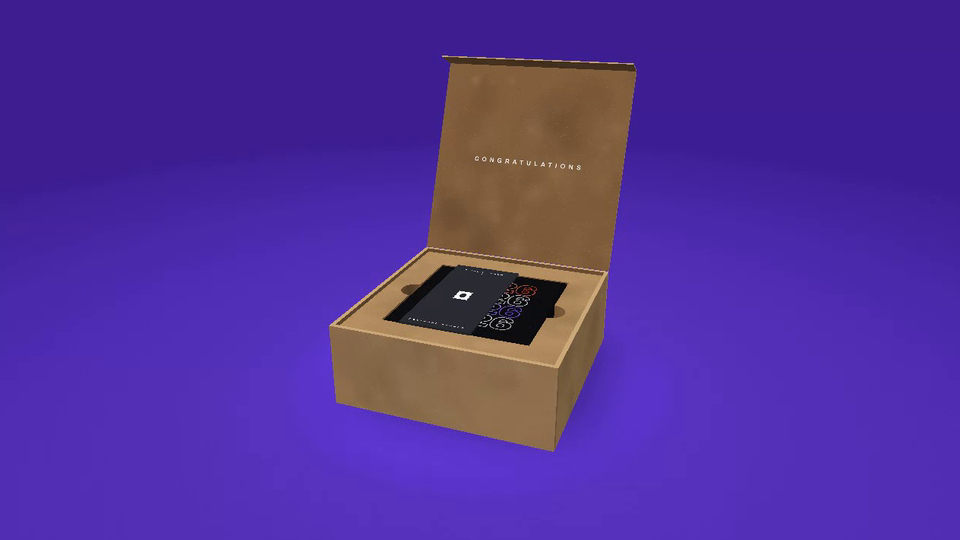
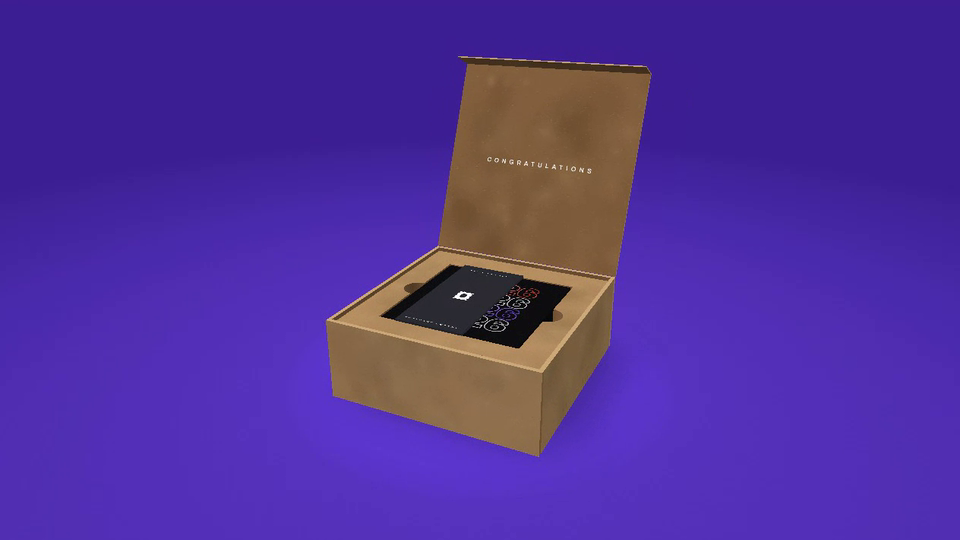
Postmark Awards Unboxing: quill tips come out through the stamps
Claude-Session: https://claude.ai/code/session_016rpguZhw5M1h1FTryY25yE

Changed region(s): [[0.3125, 0.0889, 0.6875, 0.8593], [0.3438, 0.6815, 0.4062, 0.7704], [0.4375, 0.7704, 0.4688, 0.8]]

diff --git a/postmark-awards-unboxing/index.html b/postmark-awards-unboxing/index.html
@@ -194,19 +194,23 @@ const WIN_TOP = triangulate(rectPts((SL_XB - SL_XA) / 2, 173)); // the sleeve to
 const porcP = (x, y) => [(x - 501) * PK, -(y - 490) * PK];
 const pairs = (a) => { const o = []; for (let i = 0; i < a.length; i += 2) o.push(porcP(a[i], a[i + 1])); return o; };
 const BODY_P = pairs(PORC_BODY), BODY_T = triangulate(BODY_P);
-const STEM_P = PORC_STEMS.map(pairs), STEM_T = STEM_P.map((p) => triangulate(p));
+const STEM0 = PORC_STEMS.map(pairs); // the traced quills; the drawn ones (STEM_P) are lengthened below so their tips come out through the stamps
 /* pierced stamps: each stamp is skewered on its quill a little below the tip, leaning off square to the quill, so the tip pokes out through its face.
    Award local space: x = p[0], y = out of the glass, z = -p[1]. Each stamp: centre, across (in the glass plane, square to the quill), up, and its face normal. */
 const STAMP_TILT = [1.0, -1.08, 0.95, -1.05, 1.1, -0.98, 1.04], STAMP_K = 0.85, STAMP_BACK = 10, STAMP_T = 2.2; // tilt from square-to-the-quill toward lying in the glass
 const STAMPS3 = PORC_STAMPS.map(([, , hw, hh, , c], i) => {
-  const P = STEM_P[i], cx = P.reduce((a, p) => a + p[0], 0) / P.length, cy = P.reduce((a, p) => a + p[1], 0) / P.length;
+  const P = STEM0[i], cx = P.reduce((a, p) => a + p[0], 0) / P.length, cy = P.reduce((a, p) => a + p[1], 0) / P.length;
   const tip = P.reduce((m, p) => (Math.hypot(p[0] - cx, p[1] - cy) > Math.hypot(m[0] - cx, m[1] - cy) ? p : m)), l = Math.hypot(tip[0] - cx, tip[1] - cy), d = [(tip[0] - cx) / l, (tip[1] - cy) / l];
   const C = [tip[0] - d[0] * STAMP_BACK, 0, -(tip[1] - d[1] * STAMP_BACK)], D = [d[0], 0, -d[1]], A = [-d[1], 0, -d[0]], t = STAMP_TILT[i];
   const N = [D[0] * Math.cos(t), Math.sin(t), D[2] * Math.cos(t)], U = nrm([N[1] * A[2] - N[2] * A[1], N[2] * A[0] - N[0] * A[2], N[0] * A[1] - N[1] * A[0]]);
   const R = Math.min(hw, hh) * PK * STAMP_K, poly = stampPoly(Math.max(hw, hh) / Math.min(hw, hh), 0.62, 0.12, 4); // long side across the quill
   const at = (q, off) => [C[0] + A[0] * q[0] * R + U[0] * q[1] * R + N[0] * off, C[1] + A[1] * q[0] * R + U[1] * q[1] * R + N[1] * off, C[2] + A[2] * q[0] * R + U[2] * q[1] * R + N[2] * off];
-  return { C, N, poly, tris: triangulate(poly), at, c: c ? RED : PURPLE };
+  return { C, N, R, d, tip, cx, cy, l, poly, tris: triangulate(poly), at, c: c ? RED : PURPLE };
 });
+/* each quill grows past its stamp: a thin, tapering tip comes out through the stamp's face and ends well beyond its edge */
+const STEM_P = STEM0.map((P, i) => { const S = STAMPS3[i], ext = S.R + 12 - STAMP_BACK + 4;
+  return P.map((p) => { const along = (p[0] - S.cx) * S.d[0] + (p[1] - S.cy) * S.d[1], w = cl((along - S.l * 0.3) / (S.l * 0.7), 0, 1); return [p[0] + S.d[0] * ext * w * w * w, p[1] + S.d[1] * ext * w * w * w]; }); });
+const STEM_T = STEM_P.map((p) => triangulate(p));
 /* the cradle: a well the shape of the award and its stamps (a hull, so the leaning stamps clear the walls), deep enough for the stamps hanging below the glass,
    with a raised platform under the body that the glass rests on */
 const hull = (pts) => { const p = pts.slice().sort((a, b) => a[0] - b[0] || a[1] - b[1]), cr = (o, a, b) => (a[0] - o[0]) * (b[1] - o[1]) - (a[1] - o[1]) * (b[0] - o[0]), lo = [], up = [];
@@ -215,7 +219,7 @@ const hull = (pts) => { const p = pts.slice().sort((a, b) => a[0] - b[0] || a[1]
   return lo.slice(0, -1).concat(up.slice(0, -1)); };
 const STAMP_FOOT = []; let STAMP_LOW = 0;
 STAMPS3.forEach((S) => S.poly.forEach((q) => [-STAMP_T, STAMP_T].forEach((off) => { const w = S.at(q, off); STAMP_FOOT.push([w[0], -w[2]]); STAMP_LOW = Math.min(STAMP_LOW, w[1]); })));
-const WELL = (() => { const H = hull(BODY_P.concat(STAMP_FOOT)), cx = H.reduce((a, p) => a + p[0], 0) / H.length, cy = H.reduce((a, p) => a + p[1], 0) / H.length;
+const WELL = (() => { const H = hull(BODY_P.concat(STAMP_FOOT, ...STEM_P)), cx = H.reduce((a, p) => a + p[0], 0) / H.length, cy = H.reduce((a, p) => a + p[1], 0) / H.length;
   return H.map((p) => { const dx = p[0] - cx, dy = p[1] - cy, l = Math.hypot(dx, dy) || 1; return [cl(p[0] + dx / l * 6, -156, 156), cl(p[1] + dy / l * 6, -156, 156)]; }); })();
 const WELL_DEEP = Math.ceil(-STAMP_LOW - AT / 2 + 4);           // how far the well floor drops below the glass's resting face
 const PLAT = Array.from({ length: 40 }, (_, i) => [-8 + 104 * Math.cos(TAU * i / 40), -52 + 27 * Math.sin(TAU * i / 40)]);
